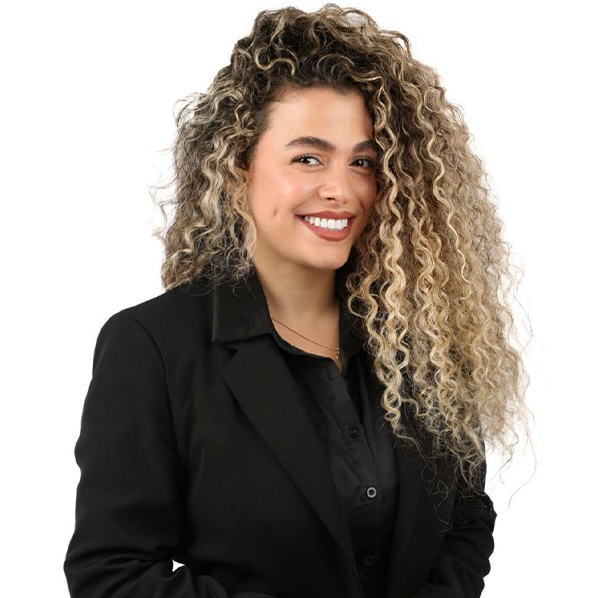
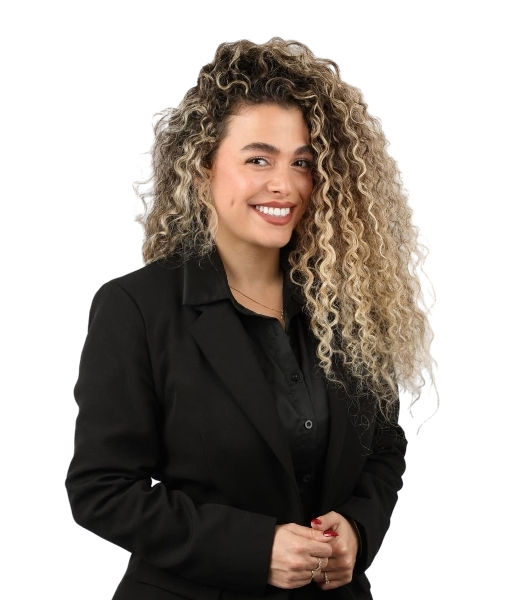
big update

diff --git a/src/data/testimonials.ts b/src/data/testimonials.ts
@@ -14,6 +14,36 @@ export const testimonials: ITestimonial[] = [
     {
         name: 'שחר',
         city: 'בת ים',
-        message: `אני מודה לאוריאן על שירות יוצא מן הכלל. אוריאן לאורך כל הדרך הפגינה אדיבות, מקצוענות, תמיכה, הסבירה כל דבר, נלחמה מול הבנק ולא ויתרה והצליחה לחסוך לנו סכום משמעותי המשכנתא החוויה הייתה נעימה,מקצועית ואני ממליץ בחום לבחור באוריאן`,
+        message: `אני מודה לאוריאן על שירות יוצא מן הכלל. אוריאן לאורך כל הדרך הפגינה אדיבות, מקצוענות, תמיכה, הסבירה כל דבר, נלחמה מול הבנק ולא ויתרה והצליחה לחסוך לנו סכום משמעותי במשכנתא. החוויה הייתה נעימה, מקצועית ואני ממליץ בחום לבחור באוריאן`,
+    },
+    {
+        name: 'אורטל',
+        city: 'רחובות',
+        message: `אורייני מהממת ! אחרי הרבה יועצים הגעתי אלייך, בשיחת טלפון הראשונה כבר הבנתי שיש על מי להישען!!! הלכת איתי יד ביד את כל התהליך עד הרגע שקיבלנו מה שרצינו. במילים פשוטות פשוט הצלת לי את הבית וגרמת לי לחזור לחיות ללא דאגות!! ממליצה באהבה ענקית אין כמוך בעולם אישיות נדירה אכפתית וסופר מקצועית.`,
+    },
+    {
+        name: 'היל גולדנברג',
+        city: 'נוף הגליל',
+        message: `אוריאן אישיות מהממת מרגיעה מקצועית ונעימה, אם לא היא לא הייתי מצליחה לעבור את היום בלי לדבר איתה שתסביר, תרגיע, תעזור - מבחינתי היא המלאך השומר שלי. אם לא היא הייתי ממש במשבר חזק. היא ליוותה אותי כל יום כל שעה כל פעם שרק הייתי צריכה ממנה עזרה או סתם לדבר כדי להרגע. אין ספק שהיא עושה את עבודתה נאמנה. אני אישיתי התחברתי אליה ותמיד אוקיר לה תודה ♥♥♥`,
+    },
+    {
+        name: 'דוד',
+        city: 'קריית ביאליק',
+        message: `קיבלנו את הטלפון מזוג יועצים. יצרנו איתה קשר טלפוני, אמרה לנו איזה מסמכים להעביר לה בשביל הורדת ההחזר החודשי. בדקה את המשכנתא שלנו ומיחזרה לנו אותה אחרי שבדקה בכמה בנקים. הורידה לנו את ההחזר החודשי בכמעט 60 אחוזים. סמכנו עליה, אפילו שדיברנו דרך הטלפון דאגה להכל - לכל הניירת, חתימות דרך הטלפון, אפילו בזמן המלחמה שעוד התחילה לא עזבה אותנו ועשתה כל מה שצריך ובמהירות מקצוענית זמינה בכל שעה לכל שאלה וגם היום אני מתייעץ איתה והיא עוזרת לנו. ממליץ בחום עליה`,
+    },
+    {
+        name: 'אביחי',
+        city: 'אופקים',
+        message: `ממליץ בחום לקחת את אוריאן לליווי משכנתאות ובעיות פיננסיות. מדובר בבחורה שהיא עילוי ובולדוזרית מול הבנקים והכי חשוב טיפול אישי ומלווה לכל אורך הדרך ומהיר!!`,
+    },
+    {
+        name: 'יוסף גידניאן',
+        city: 'חולון',
+        message: `בשתי מילים - האחת והיחידה!!!!! פשוט אין דברים כמוה! היא פשוט עושה את העבודה בצורה מדהימה ומוציאה את טיפת המיץ האחרונה שאפשר מהבנקים. לא האמנתי שאני יכול לקבל את סכום ההלוואה שאושר לי ועוד באיזה ריבית. בלי שום קשר שהיא לדעתי התותחית בתחום היא פשוט אישה מופלאה ועושה הכל בשבילך. ממליץ עליה עם 10 כוכבים. אוריאן תודה רבה על כל הטיפול את פשוט מדהימה!!!!`,
+    },
+    {
+        name: 'שני ויוסי',
+        city: 'יבנה',
+        message: `וואו וואו וואו מאיפה להתחיל? אוריאן האלופה תודה רבה על שירותייך, מקצועיות ואנושיות.  נלחמת על כל הצעה לקבל את הטוב ביותר עבור הלקוחות שלה. ממליצים בחום!!! אין אחד שלא יקבל את המספר שלך שנשמע שמחפשים יועץ משכנתאות. אלופה תודה רבה על הכל ❤`,
     },
 ];

diff --git a/src/components/Hero.tsx b/src/components/Hero.tsx
@@ -11,7 +11,7 @@ const Hero: React.FC = () => {
   return (
     <section
       id="hero"
-      className="relative flex items-center justify-center h-screen px-5">
+      className="relative flex items-center justify-center min-h-screen px-5">
       {/* Background Image with Fade-in & Blur */}
       <motion.div
         initial={{ opacity: 0, scale: 1.1 }}
@@ -44,7 +44,7 @@ const Hero: React.FC = () => {
           initial={{ opacity: 0, y: -20 }}
           animate={{ opacity: 1, y: 0 }}
           transition={{ duration: 1, delay: 0.5 }}
-          className="text-4xl md:text-6xl md:leading-tight font-bold text-foreground max-w-lg md:max-w-2xl mx-auto">
+          className="text-4xl md:text-6xl md:leading-tight font-bold text-foreground max-w-lg md:max-w-2xl mx-auto mt-10">
           {heroDetails.heading}
         </motion.h1>
 
@@ -69,7 +69,7 @@ const Hero: React.FC = () => {
           initial={{ opacity: 0, y: 30 }}
           animate={{ opacity: 1, y: 0 }}
           transition={{ duration: 1, delay: 0.9 }}
-          className="grid grid-cols-1 sm:grid-cols-3 gap-4 max-w-3xl">
+          className="grid grid-cols-1 sm:grid-cols-3 gap-2 max-w-3xl">
           {[
             { label: "תאריך", value: heroDetails.eventDate },
             { label: "שעות", value: heroDetails.eventTime },
@@ -106,20 +106,8 @@ const Hero: React.FC = () => {
         </motion.div>
 
         {/* CTA Button with Pulse Effect */}
-        <motion.div
-          initial={{ opacity: 0, scale: 0.9 }}
-          animate={{ opacity: 1, scale: 1 }}
-          transition={{ duration: 1, delay: 1.2 }}
-          whileHover={{ scale: 1.1 }}
-          whileTap={{ scale: 0.95 }}
-          className="relative mt-4">
-          <ButtonCta />
-          <motion.div
-            className="absolute inset-0 rounded-full bg-opacity-20 blur-lg"
-            animate={{ scale: [1, 1.1, 1], opacity: [0.6, 0.3, 0.6] }}
-            transition={{ duration: 2, repeat: Infinity }}
-          />
-        </motion.div>
+
+        <ButtonCta />
 
         {/* Logo Image with Entrance Animation */}
         <motion.div

diff --git a/src/components/PersonIntro.tsx b/src/components/PersonIntro.tsx
@@ -2,6 +2,7 @@
 
 import Image from "next/image";
 import { motion } from "framer-motion";
+import SectionTitle from "./SectionTitle";
 
 const containerVariants = {
   offscreen: {
@@ -44,29 +45,29 @@ const PersonIntro = () => {
       viewport={{ once: true }}>
       {/* Image */}
       <motion.div
-        className="w-44 h-44 md:w-52 md:h-52 overflow-hidden shadow-lg border-4 border-gray-300"
+        className="w-80 h-full md:w-96 overflow-hidden"
         variants={imageVariants}>
         <Image
           src="/images/orian-2.png"
           alt="אוריאן אברמוב"
-          width={599}
-          height={599}
-          className="object-cover w-full h-full"
+          width={1096}
+          height={1270}
+          className="object-cover w-full h-full "
         />
       </motion.div>
       {/* Text Content */}
       <motion.div
-        className="max-w-lg text-center md:text-right"
+        className="max-w-lg text-center md:text-right "
         variants={containerVariants}>
-        <motion.h1
-          className="text-5xl md:text-3xl font-bold text-primary md:col-start-2 md:col-end-3"
-          variants={containerVariants}>
-          מנחת הכנס
-        </motion.h1>
-        <h2 className="text-2xl md:text-3xl font-bold text-primary">
+        <SectionTitle>
+          <motion.h1 className="manrope" variants={containerVariants}>
+            מנחת הכנס
+          </motion.h1>
+        </SectionTitle>
+        <h2 className="text-2xl md:text-3xl font-bold text-primary manrope">
           אוריאן אברמוב
         </h2>
-        <p className="text-lg font-semibold text-secondary mt-1">
+        <p className="text-lg font-semibold text-secondary mt-1 manrope">
           יועצת משכנתאות ופיננסים | מומחית לתיקים מורכבים, מסורבים ואיחוד
           הלוואות
         </p>

diff --git a/src/components/ButtonCta.tsx b/src/components/ButtonCta.tsx
@@ -1,14 +1,31 @@
+"use client";
 import React from "react";
 import Link from "next/link";
+import { motion } from "framer-motion";
 
 const ButtonCta = () => {
   return (
-    <Link
-      href="https://ashdod.smarticket.co.il/הכנס___מחוב_לחופש_?"
-      target="_blank"
-      className="mt-6 px-8 py-3 bg-[#34D399] text-white font-bold rounded hover:bg-[#239068] transition shadow-lg">
-      שריינו את מקומכם עכשיו!
-    </Link>
+    <motion.div
+      initial={{ opacity: 0, scale: 0.9 }}
+      whileInView={{ opacity: 1, scale: 1 }}
+      transition={{ duration: 1, delay: 0.5 }}
+      viewport={{ once: true }}
+      className="relative inline-block mt-4">
+      {/* CTA Button with Proper Pointer */}
+      <Link
+        href="https://ashdod.smarticket.co.il/הכנס___מחוב_לחופש_?"
+        target="_blank"
+        className="cursor-pointer px-8 py-3 bg-yellow-600 text-white font-bold rounded-lg shadow-lg transition-all duration-300 hover:bg-yellow-700 hover:shadow-xl">
+        תפסו את מקומכם עכשיו!
+      </Link>
+
+      {/* Pulse Effect - No Pointer Events to Avoid Interference */}
+      <motion.div
+        className="absolute inset-0 rounded-lg bg-yellow-600 opacity-40 blur-md pointer-events-none"
+        animate={{ scale: [1, 1.2, 1], opacity: [0.4, 0.2, 0.4] }}
+        transition={{ duration: 1.5, repeat: Infinity }}
+      />
+    </motion.div>
   );
 };
 

diff --git a/src/components/Testimonials.tsx b/src/components/Testimonials.tsx
@@ -7,6 +7,7 @@ import { Autoplay, Pagination, Navigation } from "swiper/modules";
 import "swiper/css";
 import "swiper/css/pagination";
 import "swiper/css/navigation";
+import SectionTitle from "./SectionTitle";
 
 export const childVariants = {
   offscreen: {
@@ -27,9 +28,11 @@ export const childVariants = {
 const Testimonials = () => {
   return (
     <div className="max-w-lg w-full mx-auto lg:max-w-full">
-      <h2 className="text-5xl text-primary font-bold text-center mb-8">
-        לקוחות מספרים
-      </h2>
+      <SectionTitle>
+        <h2 className="text-5xl text-primary font-bold text-center mb-8">
+          לקוחות מספרים
+        </h2>
+      </SectionTitle>
       <Swiper
         modules={[Autoplay, Pagination, Navigation]}
         slidesPerView={1}
@@ -39,7 +42,7 @@ const Testimonials = () => {
         loop={true}>
         {testimonials.map((testimonial, index) => (
           <SwiperSlide key={index}>
-            <div className=" text-center p-4 m-2 border border-gray-300 rounded-lg h-[300px] bg-gray-100 shadow-md">
+            <div className=" text-center p-6 m-2 border border-gray-300 rounded-lg min-h-[300px] max-h-[600px] bg-gray-100 shadow-md">
               <div className="mb-4">
                 <h3 className="text-lg font-semibold text-secondary">
                   {testimonial.name}

diff --git a/src/components/Stats.tsx b/src/components/Stats.tsx
@@ -1,24 +1,26 @@
 "use client";
 import { stats } from "@/data/stats";
 import { motion } from "framer-motion";
+import SectionTitle from "./SectionTitle";
 
 const Stats: React.FC = () => {
   return (
     <section id="stats" className="py-10 lg:py-20">
       {/* Section Title with Scroll Animation */}
-      <motion.h1
-        className="text-5xl font-bold mb-10 text-primary text-center"
-        initial={{ opacity: 0, y: -30 }}
-        whileInView={{ opacity: 1, y: 0 }}
-        transition={{ duration: 1 }}
-        viewport={{ once: true }} // Animates only the first time in view
-      >
-        מטרת הכנס
-      </motion.h1>
-
+      <SectionTitle>
+        <motion.h1
+          className="mb-10 text-center"
+          initial={{ opacity: 0, y: -30 }}
+          whileInView={{ opacity: 1, y: 0 }}
+          transition={{ duration: 1 }}
+          viewport={{ once: true }} // Animates only the first time in view
+        >
+          מטרת הכנס
+        </motion.h1>
+      </SectionTitle>
       {/* Stats Grid with On-Scroll Animations */}
       <motion.div
-        className="grid sm:grid-cols-3 gap-8"
+        className="grid sm:grid-cols-3 gap-8 mt-8"
         initial="hidden"
         whileInView="visible"
         variants={{

diff --git a/src/components/Schedule.tsx b/src/components/Schedule.tsx
@@ -3,6 +3,7 @@ import React from "react";
 import { scheduleItems } from "@/data/loz";
 
 import { motion, Variants } from "framer-motion";
+import SectionTitle from "./SectionTitle";
 
 const containerVariants: Variants = {
   offscreen: {
@@ -41,15 +42,16 @@ export const childVariants = {
 const Schedule: React.FC = () => {
   return (
     <section id="schedule" className="my-12 px-5">
-      <motion.h2
-        className="text-5xl text-primary font-bold mb-10 text-center"
-        variants={childVariants}
-        initial="offscreen"
-        whileInView="onscreen"
-        viewport={{ once: true }}>
-        לו״ז הכנס
-      </motion.h2>
-
+      <SectionTitle>
+        <motion.h2
+          className="text-5xl text-primary font-bold mb-10 text-center"
+          variants={childVariants}
+          initial="offscreen"
+          whileInView="onscreen"
+          viewport={{ once: true }}>
+          לו״ז הכנס
+        </motion.h2>
+      </SectionTitle>
       <motion.div
         className="max-w-4xl mx-auto"
         variants={containerVariants}

diff --git a/src/app/layout.tsx b/src/app/layout.tsx
@@ -1,13 +1,13 @@
 import type { Metadata } from "next";
 import { GoogleAnalytics } from "@next/third-parties/google";
-import { Source_Sans_3, Manrope } from "next/font/google";
+import { Source_Sans_3, Secular_One } from "next/font/google";
 
 import Footer from "@/components/Footer";
 import { siteDetails } from "@/data/siteDetails";
 
 import "./globals.css";
 
-const manrope = Manrope({ subsets: ["latin"] });
+const secular_one = Secular_One({ weight: "400", subsets: ["latin"] });
 const sourceSans = Source_Sans_3({ subsets: ["latin"] });
 
 export const metadata: Metadata = {
@@ -43,7 +43,7 @@ export default function RootLayout({
   return (
     <html lang="he" dir="rtl">
       <body
-        className={`${manrope.className} ${sourceSans.className} antialiased`}>
+        className={`${secular_one.className} ${sourceSans.className} antialiased`}>
         {siteDetails.googleAnalyticsId && (
           <GoogleAnalytics gaId={siteDetails.googleAnalyticsId} />
         )}

diff --git a/src/components/Benefits/BenefitSection.tsx b/src/components/Benefits/BenefitSection.tsx
@@ -74,6 +74,7 @@ const BenefitSection: React.FC<Props> = ({
         initial="offscreen"
         whileInView="onscreen"
         viewport={{ once: true }}>
+        {/* ✅ מספר התחנה */}
         <div
           className={`w-14 h-14 flex items-center justify-center rounded-full text-xl font-bold border border-white shadow-md ${
             textColors[index % textColors.length]
@@ -98,7 +99,6 @@ const BenefitSection: React.FC<Props> = ({
             className="object-cover w-full h-full"
           />
         </div>
-        {/* ✅ מספר התחנה */}
         <div className="flex flex-col items-center lg:items-start text-center lg:text-right w-full max-w-lg">
           <h3 className="mt-4 text-3xl font-bold">{title}</h3>
           <h4 className="text-lg text-gray-300 mt-1">{author}</h4>

diff --git a/src/components/Benefits/Benefits.tsx b/src/components/Benefits/Benefits.tsx
@@ -1,3 +1,4 @@
+import SectionTitle from "../SectionTitle";
 import BenefitSection from "./BenefitSection";
 
 import { benefits } from "@/data/benefits";
@@ -5,9 +6,9 @@ import { benefits } from "@/data/benefits";
 const Benefits: React.FC = () => {
   return (
     <div id="features">
-      <h1 className="text-5xl font-bold text-primary text-center md:col-start-2 md:col-end-3">
-        התחנות בדרך לעצמאות כלכלית
-      </h1>
+      <SectionTitle>
+        <h1 className="text-primary text-center">התחנות בדרך לעצמאות כלכלית</h1>
+      </SectionTitle>
       {benefits.map((item, index) => {
         return (
           <BenefitSection

diff --git a/src/components/SectionTitle.tsx b/src/components/SectionTitle.tsx
@@ -7,8 +7,9 @@ interface SectionTitleProps {
 const SectionTitle: React.FC<SectionTitleProps> = ({ children }) => {
   return React.cloneElement(children, {
     className:
-      children.props.className +
-      " text-3xl lg:text-5xl lg:leading-tight font-bold",
+      "md:text-3xl font-bold md:col-start-2 md:col-end-3 lg:text-5xl lg:leading-tight font-bold text-5xl " +
+      "bg-gradient-to-r from-blue-800 via-blue-500 to-gray-300 bg-clip-text text-transparent manrope" +
+      children.props.className,
   });
 };
 

diff --git a/src/components/Countdown.tsx b/src/components/Countdown.tsx
@@ -59,7 +59,7 @@ interface TimeBoxProps {
 
 const TimeBox: React.FC<TimeBoxProps> = ({ label, value }) => {
   return (
-    <div className="p-2 w-16 bg-primary rounded-md text-center shadow-md">
+    <div className="p-2 w-16 bg-yellow-600 rounded-md text-center shadow-md">
       <div className="text-4xl font-bold border-2 border-white">
         {value.toString().padStart(2, "0")}
       </div>
